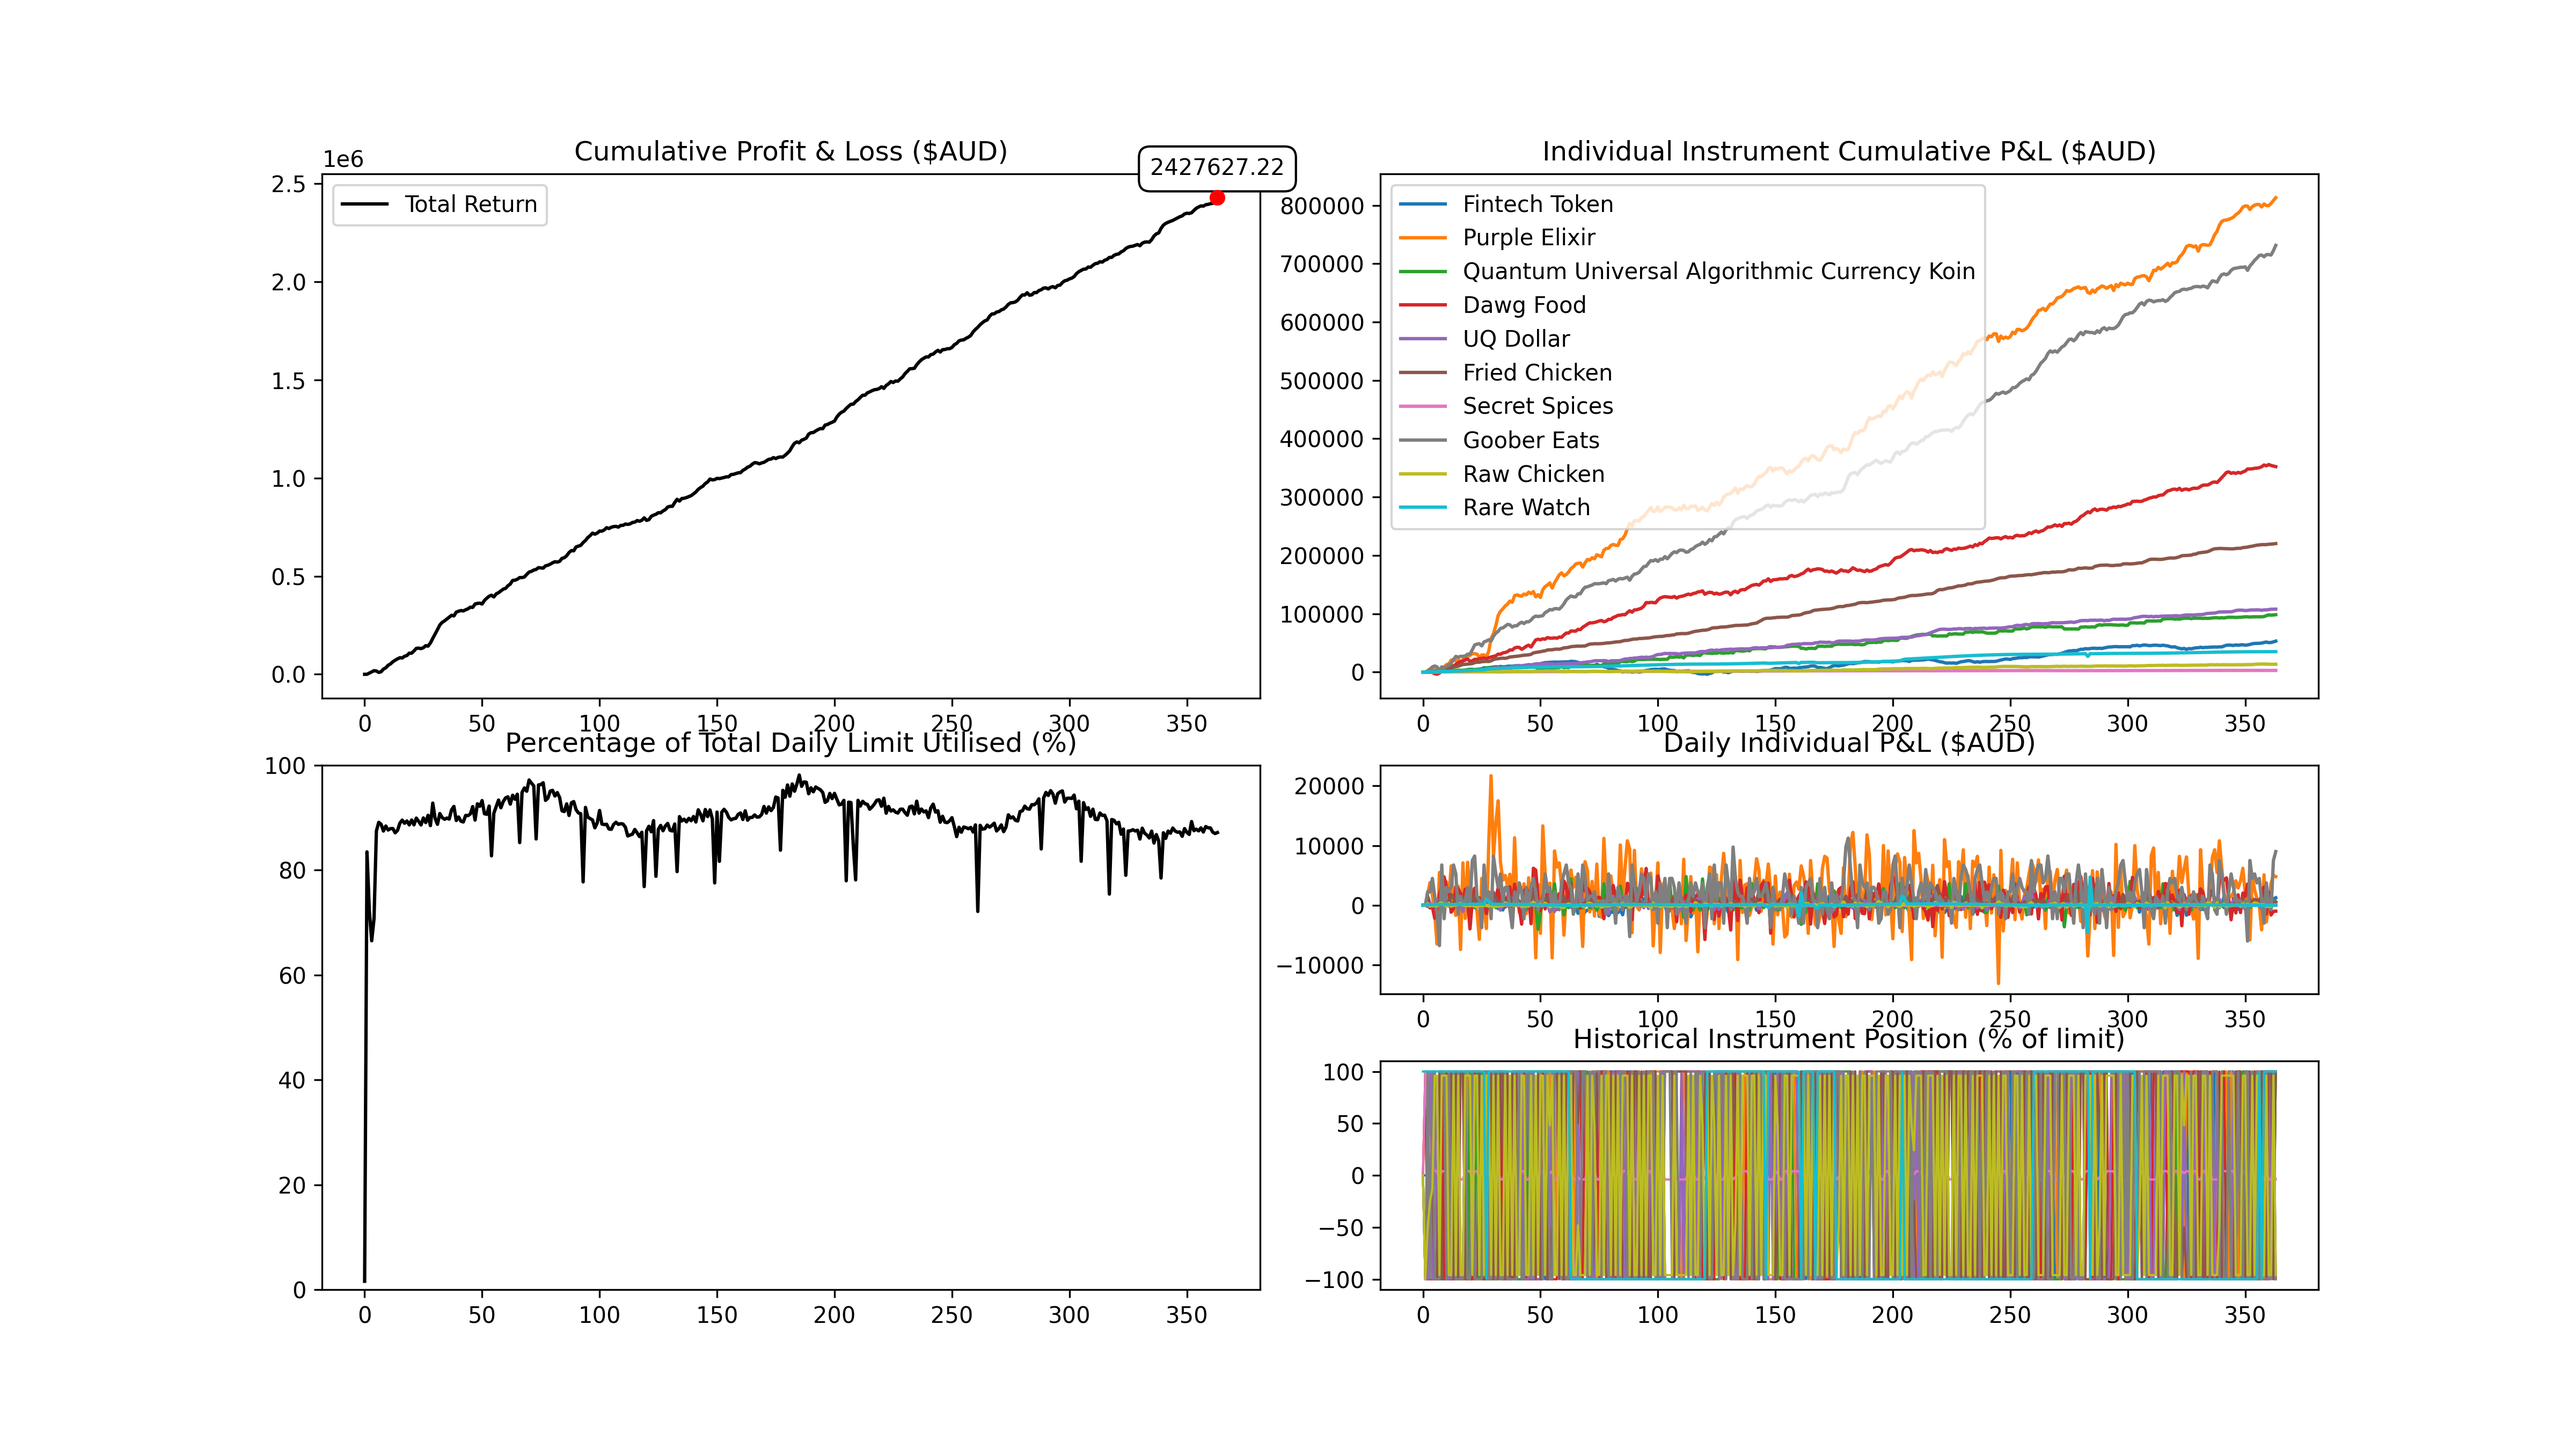
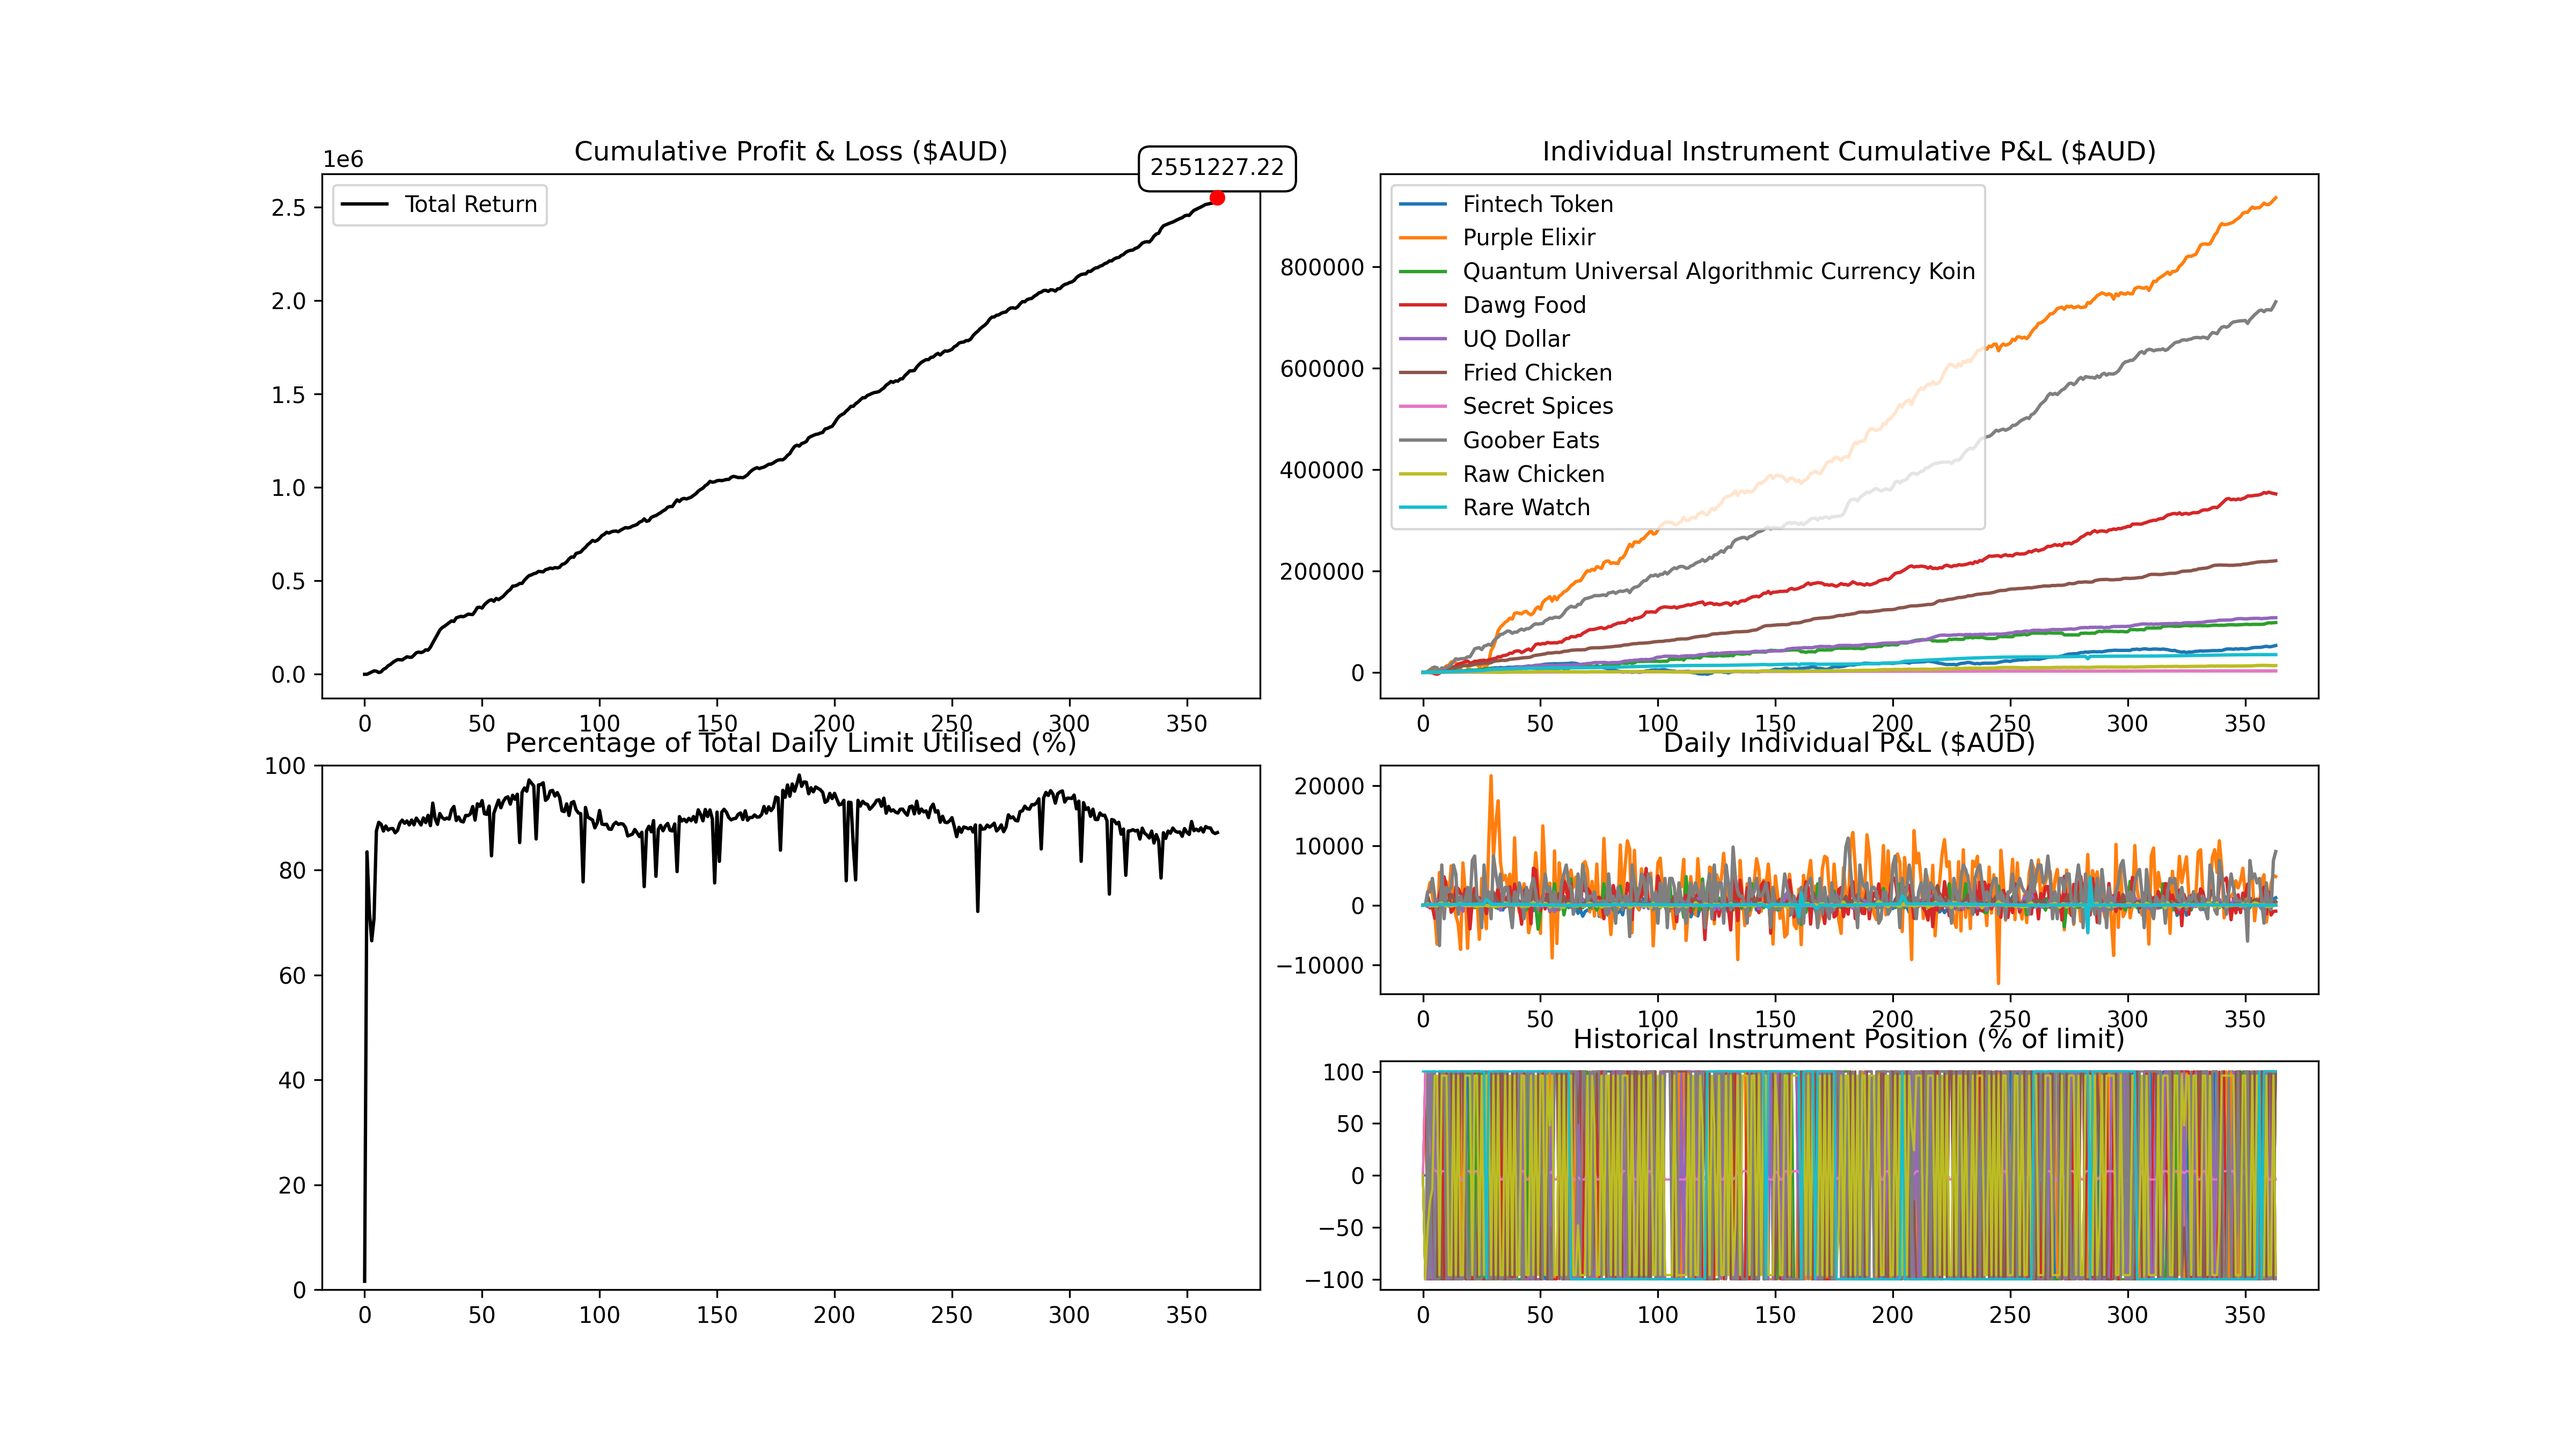
more tuning

diff --git a/trader_interface/algorithm.py b/trader_interface/algorithm.py
@@ -107,7 +107,7 @@ class Algorithm():
 
         # EMA
         trade_instruments = [PE, UD, GE, DF, FT]
-        ema_periods = {PE:8, UD:12, FC:42, GE:14, DF:6, FT:5}  # EMA lookback period - TODO adjust for different instruments
+        ema_periods = {PE:3, UD:12, FC:42, GE:14, DF:6, FT:5}  # EMA lookback period - TODO adjust for different instruments
 
         # We need enough data to calculate EMA
         for ins in trade_instruments:
